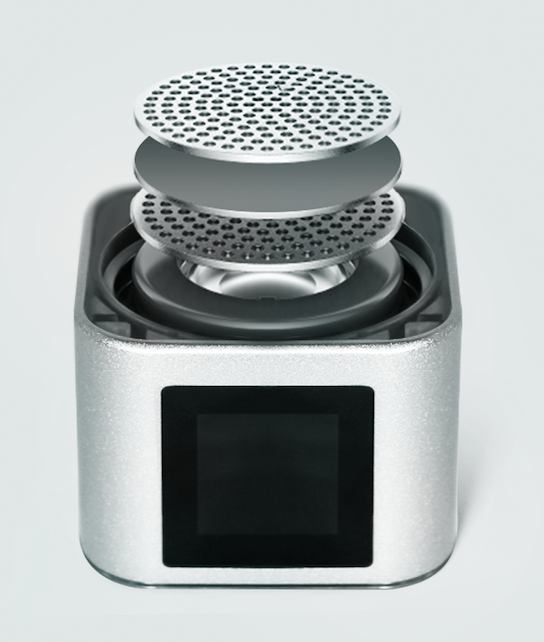
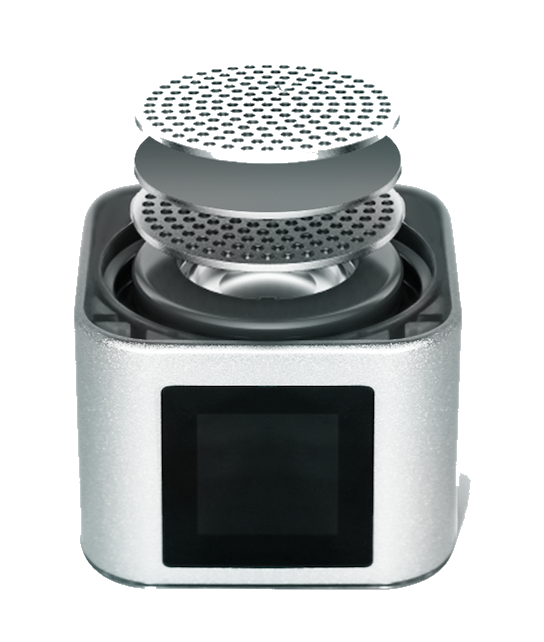
Improve technology feature card imagery

diff --git a/components/home/DesignedAroundEverySipSection.tsx b/components/home/DesignedAroundEverySipSection.tsx
@@ -14,14 +14,14 @@ export function DesignedAroundEverySipSection() {
       alt: "Laikfvea SPE PEM membrane module",
       width: 544,
       height: 642,
-      className: "w-[130px] max-w-[130px]"
+      className: "w-full max-w-[180px]"
     },
     "Premium Materials": {
       src: "/technology/premium-glass-bottle.png",
       alt: "Laikfvea premium glass bottle component",
       width: 598,
       height: 806,
-      className: "w-[110px] max-w-[110px]"
+      className: "max-h-[160px] w-auto max-w-full"
     }
   };
 
@@ -40,19 +40,19 @@ export function DesignedAroundEverySipSection() {
             const image = featureImages[feature.title];
 
             return (
-              <article key={feature.title} className="flex h-full flex-col rounded-brand bg-white p-7 shadow-soft">
+              <article key={feature.title} className="flex h-full flex-col rounded-brand bg-white p-8 shadow-soft">
                 <div>
                   <h3 className="text-lg font-semibold text-ink">{feature.title}</h3>
                   <p className="mt-4 text-sm leading-7 text-muted">{feature.body}</p>
                 </div>
-                <div className="mt-5 flex min-h-[155px] items-end justify-center">
+                <div className="mt-5 flex min-h-[180px] items-center justify-center">
                   {image ? (
                     <Image
                       src={image.src}
                       alt={image.alt}
                       width={image.width}
                       height={image.height}
-                      sizes="140px"
+                      sizes="180px"
                       className={`h-auto object-contain ${image.className}`}
                     />
                   ) : null}